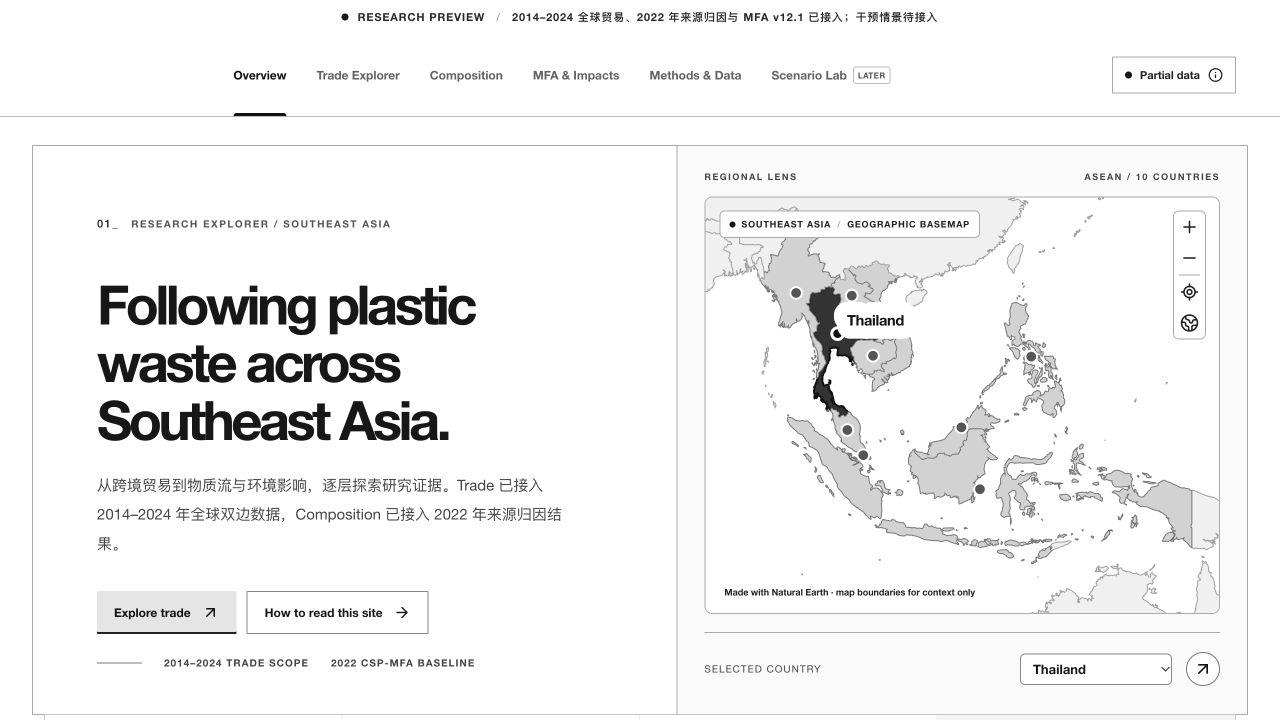
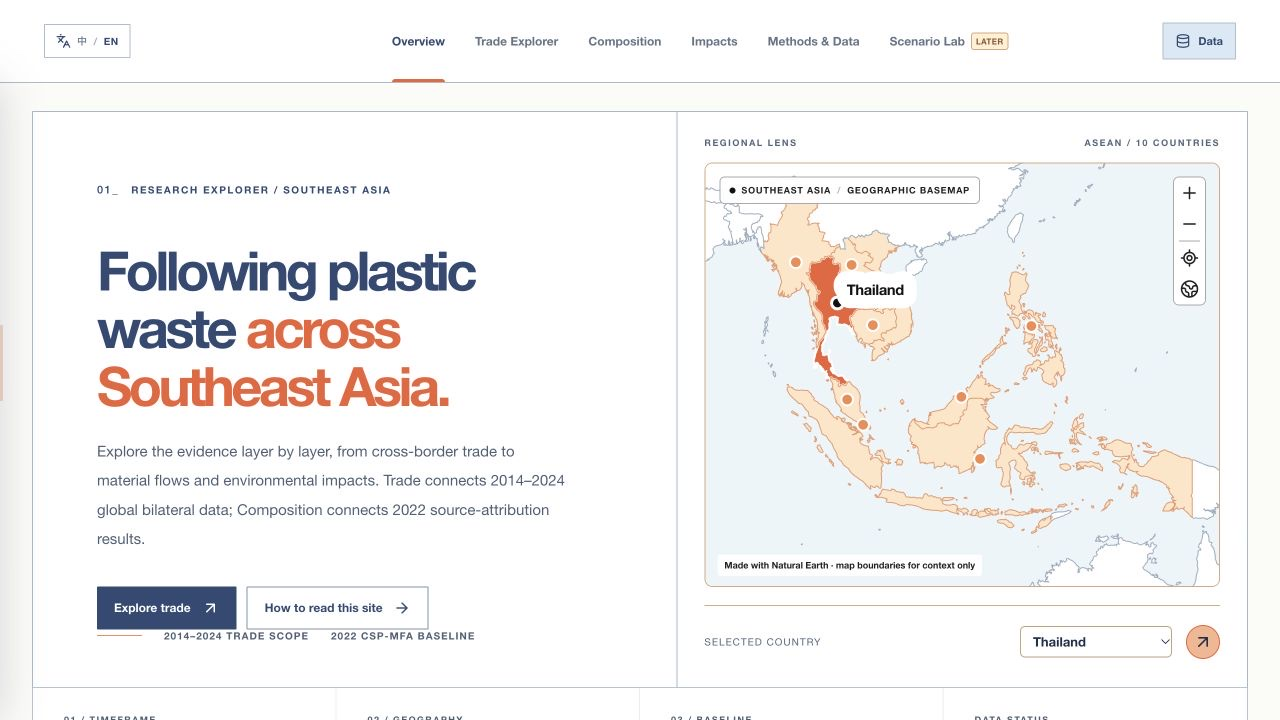
Refresh research project colors

diff --git a/style.css b/style.css
@@ -220,8 +220,8 @@ html[lang="zh-CN"] .hero-view-label { font-family: var(--zh-sans); }
 .work-card--hihi { --card-surface: #f5d88b; --card-ink: #633a1f; --card-accent: #ea8f29; }
 .work-card--mood-journal { --card-surface: #e4f1e3; --card-ink: #3d554a; --card-accent: #806eac; background: linear-gradient(135deg, #e2f1e2 0%, #eef4e9 45%, #e9e1f5 100%); }
 .work-card.work-card--mood-journal::after { background: linear-gradient(122deg, rgba(255,255,255,.54) 0%, rgba(238,247,235,.28) 46%, rgba(225,214,244,.3) 100%); }
-.work-card--research { --card-surface: #edf0e3; --card-ink: #181a18; --card-accent: #879300; background: linear-gradient(135deg, #f2f1ec 0%, #f8faf2 52%, #e4e9b3 100%); }
-.work-card.work-card--research::after { background: linear-gradient(122deg, rgba(255,255,255,.5) 0%, rgba(246,248,239,.18) 52%, rgba(210,219,130,.22) 100%); }
+.work-card--research { --card-surface: #d9e9f4; --card-ink: #1d2f4b; --card-accent: #304a73; --research-yellow: #f4c95d; background: linear-gradient(135deg, #d9e9f4 0%, #f7fafc 52%, #fff0d2 100%); }
+.work-card.work-card--research::after { background: linear-gradient(122deg, rgba(255,255,255,.6) 0%, rgba(220,231,242,.28) 52%, rgba(255,226,150,.3) 100%); }
 .mood-card-glow { position: absolute; z-index: -1; inset: 0; overflow: hidden; pointer-events: none; }
 .mood-card-glow::before,
 .mood-card-glow::after { position: absolute; content: ""; border-radius: 50%; filter: blur(2px); }
@@ -307,42 +307,42 @@ html[lang="zh-CN"] .hero-view-label { font-family: var(--zh-sans); }
 .mood-source-demo.is-ready .mood-demo-placeholder { opacity: 0; pointer-events: none; }
 .mood-demo-reset { min-height: 30px; margin-top: 3px; padding: 0 16px; color: var(--card-ink); background: linear-gradient(135deg, rgba(237,229,249,.82), rgba(225,242,226,.84)); border: 1px solid rgba(128,110,172,.2); border-radius: 999px; font-size: 8px; font-weight: 800; letter-spacing: .06em; cursor: pointer; }
 .research-card-grid { position: absolute; z-index: 0; inset: 0; overflow: hidden; pointer-events: none; }
-.research-card-grid::before { position: absolute; inset: 0; content: ""; background-image: linear-gradient(rgba(24,26,24,.04) 1px, transparent 1px), linear-gradient(90deg, rgba(24,26,24,.04) 1px, transparent 1px); background-size: 54px 54px; -webkit-mask-image: linear-gradient(125deg, transparent 4%, #000 48%, transparent 92%); mask-image: linear-gradient(125deg, transparent 4%, #000 48%, transparent 92%); }
+.research-card-grid::before { position: absolute; inset: 0; content: ""; background-image: linear-gradient(rgba(48,74,115,.055) 1px, transparent 1px), linear-gradient(90deg, rgba(48,74,115,.055) 1px, transparent 1px); background-size: 54px 54px; -webkit-mask-image: linear-gradient(125deg, transparent 4%, #000 48%, transparent 92%); mask-image: linear-gradient(125deg, transparent 4%, #000 48%, transparent 92%); }
 .research-card-grid span { position: absolute; color: var(--card-ink); font: 700 8px/1 "Roboto Mono", monospace; letter-spacing: .18em; opacity: .18; }
 .research-card-grid span:nth-child(1) { top: 44px; right: 52px; }
 .research-card-grid span:nth-child(2) { right: 46px; bottom: 34px; }
 .research-card-grid span:nth-child(3) { bottom: 36px; left: 46px; }
 .research-project-layout { position: relative; z-index: 1; display: grid; grid-template-columns: minmax(300px, 390px) minmax(420px, 1fr); gap: clamp(48px, 6vw, 88px); align-items: center; }
-.research-project-summary { width: 100%; padding: 32px; background: rgba(255,255,255,.78); border: 1px solid rgba(24,26,24,.12); border-radius: 4px; box-shadow: 0 22px 54px rgba(41,48,34,.1); backdrop-filter: blur(14px); -webkit-backdrop-filter: blur(14px); }
+.research-project-summary { width: 100%; padding: 32px; background: rgba(255,255,255,.82); border: 1px solid rgba(48,74,115,.16); border-radius: 4px; box-shadow: 0 22px 54px rgba(29,47,75,.11); backdrop-filter: blur(14px); -webkit-backdrop-filter: blur(14px); }
 .research-project-summary > .prototype-label { display: block; margin-bottom: 16px; }
 .research-project-summary h4 { margin: 0 0 16px; color: var(--card-ink); font-family: var(--sans); font-size: clamp(24px, 2.35vw, 33px); line-height: 1.12; letter-spacing: -.045em; }
 .research-project-summary > p { margin: 0; color: var(--card-ink); font-family: var(--sans); font-size: 12.5px; line-height: 1.72; opacity: .7; }
 .research-feature-list { display: grid; margin: 25px 0; padding: 0; gap: 9px; list-style: none; }
 .research-feature-list li { display: grid; grid-template-columns: 32px 1fr; gap: 11px; align-items: center; }
-.research-feature-list li > span { display: grid; width: 30px; height: 30px; place-items: center; color: #f7f8f0; background: var(--card-ink); border-radius: 50%; font-size: 8px; font-weight: 800; }
+.research-feature-list li > span { display: grid; width: 30px; height: 30px; place-items: center; color: var(--card-ink); background: var(--research-yellow); border-radius: 50%; font-size: 8px; font-weight: 800; }
 .research-feature-list p { margin: 0; color: var(--card-ink); font-family: var(--sans); font-size: 11px; font-weight: 700; line-height: 1.4; }
-.research-live-link { display: flex; min-height: 50px; padding: 0 18px; align-items: center; justify-content: space-between; color: #f7f8f0; background: var(--card-ink); border-radius: 2px; font-family: var(--sans); font-size: 10px; font-weight: 800; letter-spacing: .1em; text-decoration: none; box-shadow: 0 14px 26px rgba(24,26,24,.16); transition: color 180ms ease, transform 180ms ease, box-shadow 180ms ease; }
+.research-live-link { display: flex; min-height: 50px; padding: 0 18px; align-items: center; justify-content: space-between; color: #fffdf7; background: var(--card-ink); border-radius: 2px; font-family: var(--sans); font-size: 10px; font-weight: 800; letter-spacing: .1em; text-decoration: none; box-shadow: 0 14px 26px rgba(29,47,75,.2); transition: color 180ms ease, transform 180ms ease, box-shadow 180ms ease; }
 .research-live-link b { font-size: 19px; font-weight: 500; }
 .research-live-link:hover,
-.research-live-link:focus-visible { color: #202314; background: #dce540; box-shadow: 0 18px 32px rgba(52,58,25,.2); transform: translateY(-3px); }
+.research-live-link:focus-visible { color: var(--card-ink); background: var(--research-yellow); box-shadow: 0 18px 32px rgba(48,74,115,.2); transform: translateY(-3px); }
 .research-project-summary > small { display: block; margin-top: 9px; color: var(--card-ink); font-size: 8px; line-height: 1.4; text-align: center; opacity: .5; }
 .research-preview-column { gap: 15px; }
-.research-browser-link { position: relative; display: block; width: 100%; max-width: 610px; overflow: hidden; color: var(--card-ink); background: #f7f7f3; border: 1px solid rgba(24,26,24,.25); border-radius: 13px; box-shadow: 0 30px 62px rgba(29,34,25,.2); text-decoration: none; transform: rotate(.45deg); transition: transform 220ms ease, box-shadow 220ms ease; }
-.research-browser-bar { display: flex; height: 38px; padding: 0 13px; align-items: center; gap: 6px; color: #f7f8f0; background: #1b1d1a; }
-.research-browser-bar i { display: block; width: 7px; height: 7px; background: #dce540; border-radius: 50%; opacity: .78; }
+.research-browser-link { position: relative; display: block; width: 100%; max-width: 610px; overflow: hidden; color: var(--card-ink); background: #fffdf7; border: 1px solid rgba(48,74,115,.3); border-radius: 13px; box-shadow: 0 30px 62px rgba(29,47,75,.2); text-decoration: none; transform: rotate(.45deg); transition: transform 220ms ease, box-shadow 220ms ease; }
+.research-browser-bar { display: flex; height: 38px; padding: 0 13px; align-items: center; gap: 6px; color: #fffdf7; background: #1d2f4b; }
+.research-browser-bar i { display: block; width: 7px; height: 7px; background: var(--research-yellow); border-radius: 50%; opacity: .86; }
 .research-browser-bar i:nth-child(2) { opacity: .48; }
 .research-browser-bar i:nth-child(3) { opacity: .25; }
 .research-browser-bar em { margin-left: 7px; overflow: hidden; font: normal 600 8px/1 "Roboto Mono", monospace; letter-spacing: .07em; text-overflow: ellipsis; white-space: nowrap; opacity: .68; }
 .research-browser-bar b { margin-left: auto; font-size: 14px; font-weight: 500; }
 .research-browser-link > img { display: block; width: 100%; height: auto; aspect-ratio: 16 / 9; object-fit: cover; object-position: center top; transition: filter 220ms ease, transform 320ms cubic-bezier(.2,.7,.2,1); }
-.research-browser-cta { position: absolute; right: 14px; bottom: 14px; display: flex; min-height: 38px; padding: 0 13px; align-items: center; gap: 12px; color: #1b1d1a; background: #dce540; border: 1px solid rgba(24,26,24,.24); border-radius: 2px; box-shadow: 0 10px 24px rgba(24,26,24,.18); font-size: 8px; font-weight: 900; letter-spacing: .1em; transition: background-color 180ms ease, transform 180ms ease; }
+.research-browser-cta { position: absolute; right: 14px; bottom: 14px; display: flex; min-height: 38px; padding: 0 13px; align-items: center; gap: 12px; color: #1d2f4b; background: var(--research-yellow); border: 1px solid rgba(48,74,115,.28); border-radius: 2px; box-shadow: 0 10px 24px rgba(29,47,75,.2); font-size: 8px; font-weight: 900; letter-spacing: .1em; transition: background-color 180ms ease, transform 180ms ease; }
 .research-browser-cta b { font-size: 15px; }
 .research-browser-link:hover,
-.research-browser-link:focus-visible { box-shadow: 0 38px 76px rgba(29,34,25,.25); transform: translateY(-6px) rotate(0); }
+.research-browser-link:focus-visible { box-shadow: 0 38px 76px rgba(29,47,75,.25); transform: translateY(-6px) rotate(0); }
 .research-browser-link:hover > img,
 .research-browser-link:focus-visible > img { filter: contrast(1.03); transform: scale(1.018); }
 .research-browser-link:hover .research-browser-cta,
-.research-browser-link:focus-visible .research-browser-cta { background: #eef566; transform: translate(-3px, -3px); }
+.research-browser-link:focus-visible .research-browser-cta { background: #ffe09a; transform: translate(-3px, -3px); }
 .phone-demo { position: relative; width: 278px; padding: 10px; background: linear-gradient(145deg, #303036, #08080a 64%); border: 1px solid rgba(255,255,255,.28); border-radius: 44px; box-shadow: 0 30px 52px rgba(35,23,31,.28), inset 0 0 0 1px rgba(0,0,0,.6); font-family: var(--sans); transform: rotate(1.2deg); }
 .phone-speaker { position: absolute; z-index: 8; top: 18px; left: 50%; width: 82px; height: 20px; background: #08080a; border-radius: 999px; transform: translateX(-50%); }
 .phone-screen { position: relative; height: 568px; overflow: hidden; background: #fff; border-radius: 35px; box-shadow: inset 0 0 0 1px rgba(12,12,16,.14); }

diff --git a/index.html b/index.html
@@ -9,7 +9,7 @@
     <link rel="preconnect" href="https://fonts.googleapis.com" />
     <link rel="preconnect" href="https://fonts.gstatic.com" crossorigin />
     <link href="https://fonts.googleapis.com/css2?family=Inter:wght@400;500;600;900&amp;family=Roboto+Mono:wght@400;500;600;700&amp;display=swap" rel="stylesheet" />
-    <link rel="stylesheet" href="style.css?v=20261026-1" />
+    <link rel="stylesheet" href="style.css?v=20261026-2" />
     <script src="script.js?v=20261026-1" defer></script>
   </head>
   <body>
@@ -255,7 +255,7 @@
                   <span class="prototype-label" data-i18n="portfolio.researchHint">WEBSITE HOMEPAGE · CLICK TO OPEN</span>
                   <a class="research-browser-link" href="https://plasticwastedata.org/" target="_blank" rel="noopener noreferrer" aria-label="Open Southeast Asia Plastic Waste Explorer" data-i18n-aria-label="portfolio.researchAria">
                     <span class="research-browser-bar" aria-hidden="true"><i></i><i></i><i></i><em>plasticwastedata.org</em><b>↗</b></span>
-                    <img src="assets/research-preview.jpg" alt="Southeast Asia Plastic Waste Explorer homepage preview" width="1280" height="720" loading="lazy" decoding="async" fetchpriority="low" />
+                    <img src="assets/research-preview.jpg?v=20261026-2" alt="Southeast Asia Plastic Waste Explorer homepage preview" width="1280" height="720" loading="lazy" decoding="async" fetchpriority="low" />
                     <span class="research-browser-cta"><span data-i18n="portfolio.researchPreviewCta">EXPLORE THE DATA</span><b aria-hidden="true">↗</b></span>
                   </a>
                 </div>
